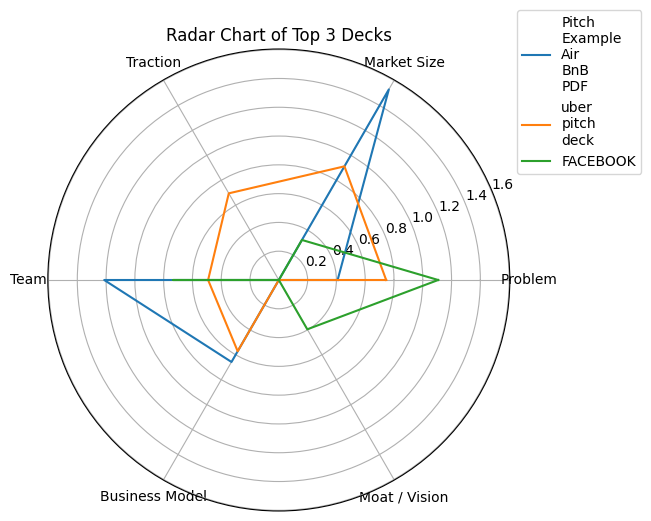
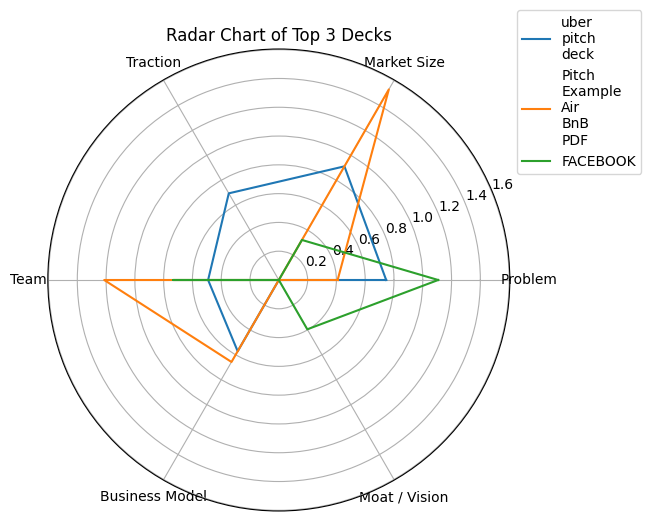
updated scripts and visulaizations

diff --git a/score_decks.py b/score_decks.py
@@ -2,8 +2,8 @@ import os
 import json
 import pandas as pd
 
-# Define scoring dimensions
-CATEGORIES = ["Problem", "Market Size", "Traction", "Team", "Business Model", "Moat / Vision"]
+# Defining scoring dimensions
+CATEGORIES = ["Problem", "Solution", "Market Size", "Traction", "Team", "Business Model", "Moat / Vision"]
 
 def score_deck(deck_data):
     score_dict = {cat: 0.0 for cat in CATEGORIES}
@@ -15,12 +15,13 @@ def score_deck(deck_data):
     return score_dict
 
 def generate_insight(score, scores):
-    p = scores["Problem"]
-    m = scores["Market Size"]
-    t = scores["Traction"]
-    team = scores["Team"]
-    bm = scores["Business Model"]
-    moat = scores["Moat / Vision"]
+    p = scores.get("Problem", 0.0)
+    s = scores.get("Solution", 0.0)
+    m = scores.get("Market Size", 0.0)
+    t = scores.get("Traction", 0.0)
+    team = scores.get("Team", 0.0)
+    bm = scores.get("Business Model", 0.0)
+    moat = scores.get("Moat / Vision", 0.0)
 
     if score >= 5.0:
         return "Strong clarity and business signals i.e likely investor-ready."

diff --git a/classify_slides.py b/classify_slides.py
@@ -3,12 +3,12 @@ import json
 from tqdm import tqdm
 from transformers import pipeline
 
-# Paths
+# specified the paths
 INPUT_FOLDER = "data/extracted_pdfs"
 OUTPUT_FOLDER = "data/labeled"
 os.makedirs(OUTPUT_FOLDER, exist_ok=True)
 
-# Define labels for classification
+# Defining labels for classification
 CATEGORIES = [
     "Problem",
     "Solution",
@@ -21,7 +21,7 @@ CATEGORIES = [
     "Other"
 ]
 
-# Load HuggingFace zero-shot classifier
+# Loading HuggingFace zero-shot classifier
 print("Loading model...")
 classifier = pipeline("zero-shot-classification", model="facebook/bart-large-mnli")
 print(" Model loaded!")
@@ -58,6 +58,6 @@ def classify_all_decks():
 
             print(f"Labeled: {filename} ({len(labeled_deck['slides'])} slides)")
 
-# Run all
+
 if __name__ == "__main__":
     classify_all_decks()

diff --git a/parse_pdfs.py b/parse_pdfs.py
@@ -40,9 +40,5 @@ def process_all_pdfs_with_ocr(folder_path):
                 json.dump(output, f, indent=2, ensure_ascii=False)
             print(f"OCR Extracted: {deck_name} ({len(slides)} slides)")
 
-# Run OCR extraction
+# Runing the OCR extraction
 process_all_pdfs_with_ocr(PDF_FOLDER)
-
-
-
-

diff --git a/generate_summaries.py b/generate_summaries.py
@@ -4,7 +4,7 @@ import pandas as pd
 from dotenv import load_dotenv
 import openai
 
-# Load API key
+# Loading API key
 load_dotenv()
 openai.api_key = os.getenv("GROQ_API_KEY")
 openai.api_base = "https://api.groq.com/openai/v1"
